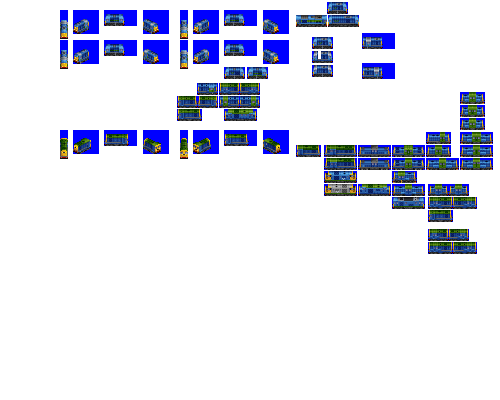
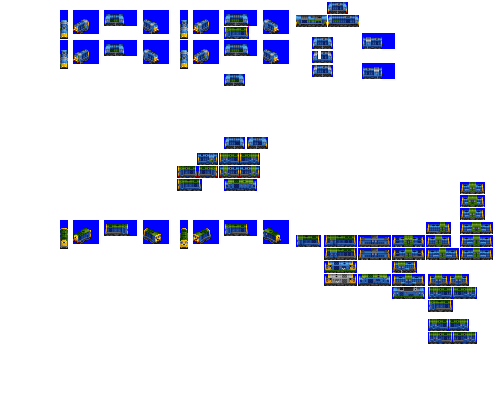
Change: if we want to play gen 6, we can't just have a handful of engines, so reshuffle test v3 roster to in some ways be closer to 2.64.0; also drop the Cupla as it doesn't seem to fit; provide a 3800 hp band of engines; bring back Highlander and Super Stentor as higher power iterations of Cheddar 

Changed region(s): [[0.12, 0.03, 0.99, 0.87]]

diff --git a/src/rosters/pony.py b/src/rosters/pony.py
@@ -14,7 +14,6 @@ from vehicles import avenger
 from vehicles import bean_feast
 from vehicles import blackthorn
 from vehicles import blaze
-from vehicles import blind_smuir
 from vehicles import boar_cat
 from vehicles import bone
 from vehicles import booster
@@ -36,7 +35,6 @@ from vehicles import cheese_bug
 from vehicles import chinook
 from vehicles import chuggypig
 from vehicles import clipper
-from vehicles import cupla
 from vehicles import daring
 from vehicles import deasil
 from vehicles import decapod
@@ -82,6 +80,7 @@ from vehicles import helm_wind_middle_mail
 from vehicles import helm_wind_middle_passenger
 from vehicles import hercules
 from vehicles import high_flyer
+from vehicles import highlander
 from vehicles import hurly_burly
 from vehicles import intrepid
 from vehicles import jupiter
@@ -140,6 +139,7 @@ from vehicles import streamer
 from vehicles import strongbow
 from vehicles import sunshine_coast
 from vehicles import super_shoebox
+from vehicles import super_stentor
 from vehicles import swift
 from vehicles import tenacious
 from vehicles import tencendur
@@ -685,11 +685,9 @@ def main():
             xerxes,
             keen,
             vigilant,
-            blind_smuir,
             mainstay,
             yillen,
             maelstrom,
-            cupla,
             doineann,
             doubletide,
             blackthorn,
@@ -702,7 +700,9 @@ def main():
             bone,
             toaster,
             cheddar_valley,
+            highlander,
             stentor,
+            super_stentor,
             flindermouse,
             dryth,
             peasweep,

diff --git a/src/vehicles/super_stentor.py b/src/vehicles/super_stentor.py
@@ -4,35 +4,32 @@ from train import EngineConsist, DieselEngineUnit
 def main(roster_id):
     consist = EngineConsist(
         roster_id=roster_id,
-        id="stentor",
-        base_numeric_id=14420,
-        name="Stentor",
+        id="super_stentor",
+        base_numeric_id=15780,
+        name="Super Stentor",
         role="super_heavy_freight",
         role_child_branch_num=-3,  # Joker eh
         power_by_power_source={
-            "DIESEL": 3800,
+            "DIESEL": 4400,
         },
         # dibble for game balance, assume super-slip control
         tractive_effort_coefficient=0.4,
         random_reverse=True,
-        intro_year_offset=3,  # let's be a little bit later for this one
-        gen=5,
+        intro_year_offset=2,  # let's be a little bit later for this one
+        gen=6,
         fixed_run_cost_points=210,  # unrealism: run cost nerf for being so high-powered
-        caboose_family="railfreight_2",
-        additional_liveries=["RAILFREIGHT_TRIPLE_GREY"],
         sprites_complete=True,
-        sprites_additional_liveries_needed=True, # copy livery from Super Stentor?
     )
 
     consist.add_unit(
         type=DieselEngineUnit,
-        weight=128,
+        weight=129,
         vehicle_length=8,
         effect_offsets=[(1, 0)],
         spriterow_num=0,
     )
 
-    consist.description = """This one is loud, and packed with technology."""
-    consist.foamer_facts = """BR Class 60 design mockups"""
+    consist.description = """Make Stentor great again."""
+    consist.foamer_facts = """Re-engineered and uprated class 60."""
 
     return consist

diff --git a/src/vehicles/cupla.py b/src/vehicles/cupla.py
@@ -7,15 +7,14 @@ def main(roster_id):
         id="cupla",
         base_numeric_id=6750,
         name="Cúpla",
-        role="heavy_freight",
+        role="super_heavy_freight",
         role_child_branch_num=-2,
         power_by_power_source={
-            "DIESEL": 2250,
+            "DIESEL": 3300,
         },
-        speed=87,  # continues past gen 5, so go faster
         random_reverse=True,
-        gen=4,
-        intro_year_offset=8,  # let's be quite a bit later for this one
+        gen=5,
+        intro_year_offset=-12,  # let's be much earlier for this one
         default_livery_extra_docs_examples=[
             ("COLOUR_PALE_GREEN", "COLOUR_GREY"),
             ("COLOUR_PINK", "COLOUR_WHITE"),
@@ -24,7 +23,7 @@ def main(roster_id):
     )
 
     consist.add_unit(
-        type=DieselEngineUnit, weight=60, vehicle_length=5, repeat=2
+        type=DieselEngineUnit, weight=60, vehicle_length=6, repeat=2
     )
 
     consist.description = """Good horses make short miles."""

diff --git a/src/vehicles/highlander.py b/src/vehicles/highlander.py
@@ -8,9 +8,9 @@ def main(roster_id):
         base_numeric_id=13290,
         name="Highlander",
         role="super_heavy_freight",
-        role_child_branch_num=2,
+        role_child_branch_num=3,
         power_by_power_source={
-            "DIESEL": 4550,  # 900hp steps Revolution -> Blackthorn -> Toaster
+            "DIESEL": 4400,
         },
         # dibble for game balance, assume super-slip control
         tractive_effort_coefficient=0.4,
@@ -18,7 +18,7 @@ def main(roster_id):
         intro_year_offset=-1,  # let's be a little bit earlier for this one
         gen=6,
         fixed_run_cost_points=220,  # unrealism: run cost nerf for being so high-powered
-        additional_liveries=["FREIGHTLINER_GBRF"],
+        alternative_cc_livery="FREIGHTLINER_GBRF",
         default_livery_extra_docs_examples=[
             ("COLOUR_BLUE", "COLOUR_WHITE"),
             ("COLOUR_PALE_GREEN", "COLOUR_YELLOW"),

diff --git a/src/vehicles/toaster.py b/src/vehicles/toaster.py
@@ -8,16 +8,16 @@ def main(roster_id):
         base_numeric_id=13840,
         name="Toaster",
         role="super_heavy_freight",
-        role_child_branch_num=1,
+        role_child_branch_num=-2,
         power_by_power_source={
-            "DIESEL": 3750,
+            "DIESEL": 3800,
         },
         # dibble for game balance, assume super-slip control
         tractive_effort_coefficient=0.38,
         random_reverse=True,
         gen=6,
         # introduce early by design
-        intro_year_offset=-10,
+        intro_year_offset=-12,
         fixed_run_cost_points=220,  # unrealism: run cost nerf for being so high-powered
         default_livery_extra_docs_examples=[
             ("COLOUR_GREEN", "COLOUR_YELLOW"),

diff --git a/src/vehicles/quietus.py b/src/vehicles/quietus.py
@@ -10,7 +10,7 @@ def main(roster_id):
         role="ultra_heavy_freight",
         role_child_branch_num=3, # in its own line as it's no neat fit to either diesel or electric progression
         power_by_power_source={
-            "DIESEL": 3300, # it's enough
+            "DIESEL": 2750, # it's enough
             "AC": 7200, # yolo, class 99 with a bit of a nerf
         },  # based on the Stadler Eurodual, really quite high values for both diesel and el (also matches Newag Dragon, which the shape is taken from)
         tractive_effort_coefficient=0.375,  # assume slip control magic

diff --git a/src/vehicles/dreadnought.py b/src/vehicles/dreadnought.py
@@ -14,7 +14,6 @@ def main(roster_id):
         },
         random_reverse=False,  # Dreadnought has asymmetric logo pixels that don't look great when running reversed
         gen=5,
-        speed=125,  # Dreadnought not replaced, but has gen 6 speeds
         fixed_run_cost_points=300,  # give a small malus to this one (balancing eh?)
         additional_liveries=[],
         default_livery_extra_docs_examples=[

diff --git a/src/vehicles/relentless.py b/src/vehicles/relentless.py
@@ -8,9 +8,9 @@ def main(roster_id):
         base_numeric_id=13440,
         name="Relentless",
         role="super_heavy_express",
-        role_child_branch_num=-1,
+        role_child_branch_num=-3,
         power_by_power_source={
-            "DIESEL": 3800,
+            "DIESEL": 4350,
         },
         # dibble for game balance, assume super-slip control
         tractive_effort_coefficient=0.355,

diff --git a/src/vehicles/cheddar_valley.py b/src/vehicles/cheddar_valley.py
@@ -8,9 +8,9 @@ def main(roster_id):
         base_numeric_id=9260,
         name="Cheddar Valley",
         role="super_heavy_freight",
-        role_child_branch_num=2,
+        role_child_branch_num=3,
         power_by_power_source={
-            "DIESEL": 4300,
+            "DIESEL": 3800,
         },
         # dibble for game balance, assume super-slip control
         tractive_effort_coefficient=0.4,

diff --git a/src/vehicles/defiant.py b/src/vehicles/defiant.py
@@ -8,9 +8,9 @@ def main(roster_id):
         base_numeric_id=14110,
         name="Defiant",
         role="super_heavy_express",
-        role_child_branch_num=-2,
+        role_child_branch_num=-1,
         power_by_power_source={
-            "DIESEL": 3750,
+            "DIESEL": 3800,
         },
         # dibble for game balance, assume super-slip control
         tractive_effort_coefficient=0.355,

diff --git a/src/vehicles/grid.py b/src/vehicles/grid.py
@@ -8,8 +8,7 @@ def main(roster_id):
         base_numeric_id=12390,
         name="Grid",
         role="super_heavy_freight",
-        role_child_branch_num=-1,
-        replacement_consist_id="blackthorn", # rebuild eh
+        role_child_branch_num=1,
         power_by_power_source={
             "DIESEL": 3300,  # drops a bit on hp/speed from previous gen, but engine weight is lower
         },

diff --git a/src/vehicles/fury.py b/src/vehicles/fury.py
@@ -8,7 +8,7 @@ def main(roster_id):
         base_numeric_id=11220,
         name="Fury",
         role="super_heavy_express",
-        role_child_branch_num=-3,
+        role_child_branch_num=-4,
         power_by_power_source={
             "AC": 3600, # supposed to be mid-powered, but maintains same hp/speed ratio of previous gen, or it will be too nerfed for 125mph
         },
